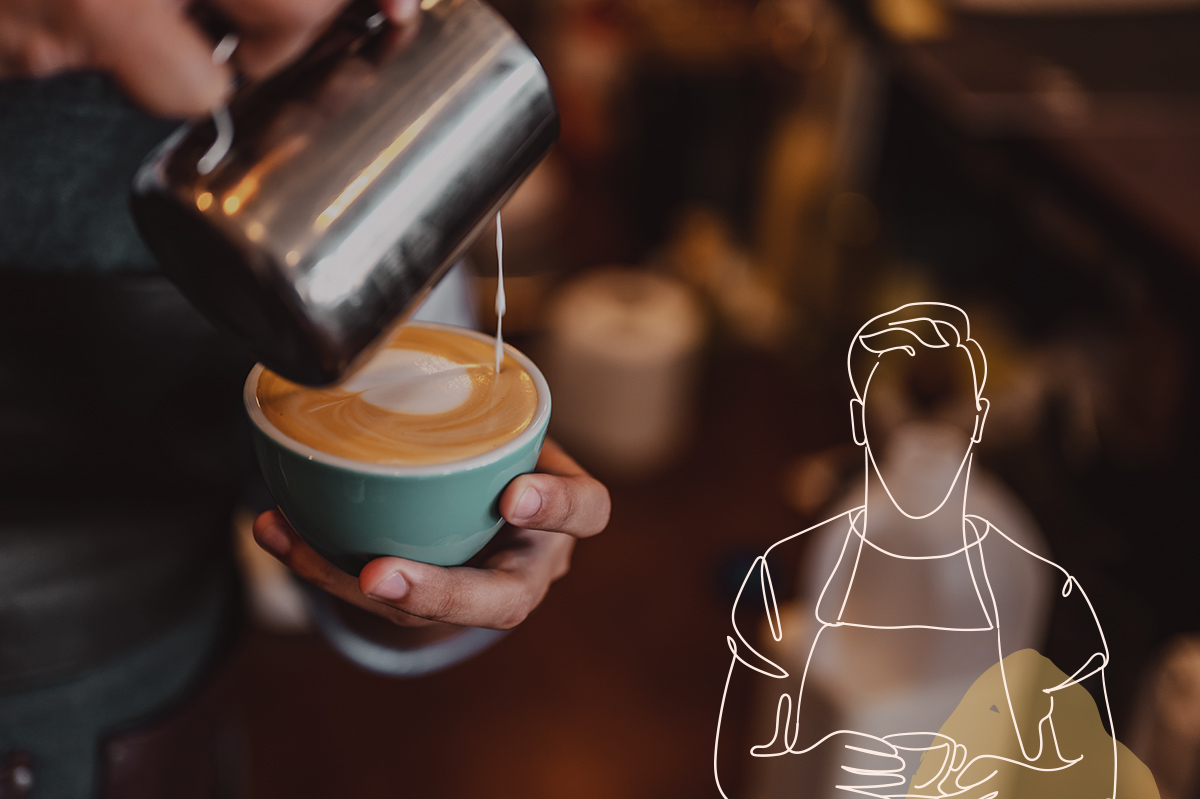
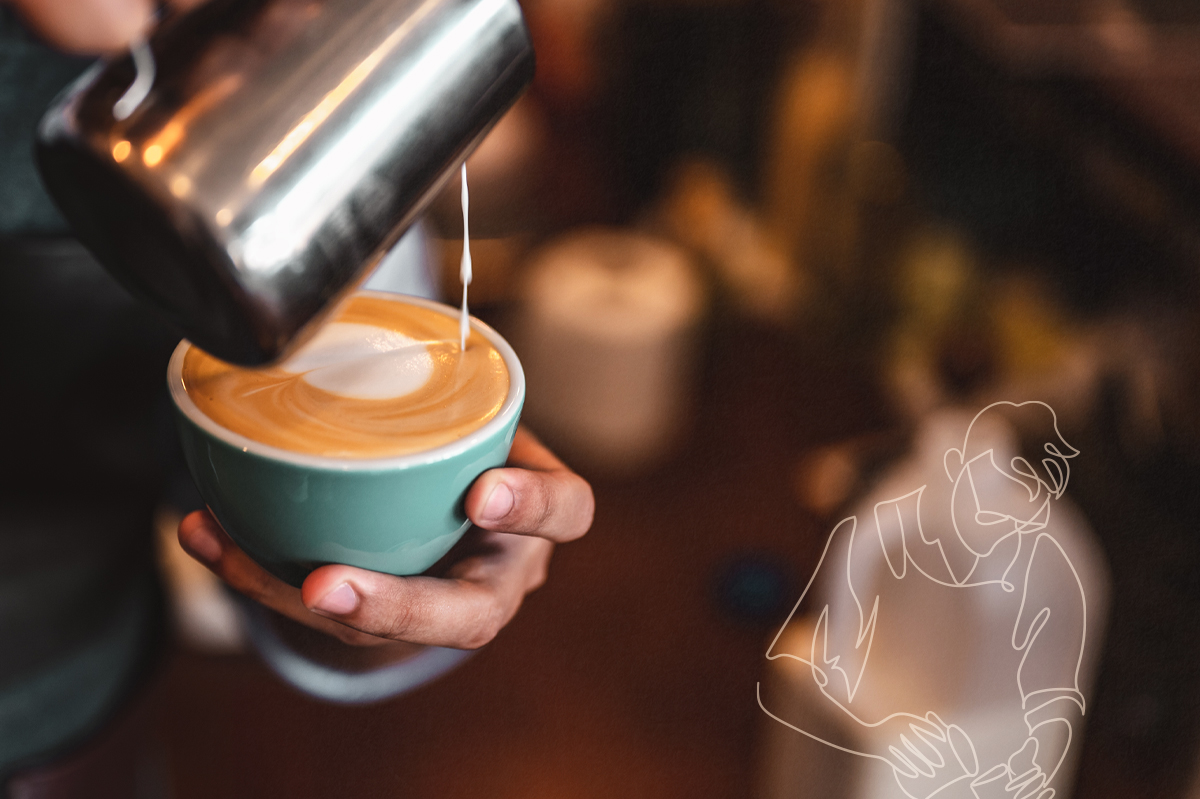
tag manager

diff --git a/cafe.html b/cafe.html
@@ -1,6 +1,16 @@
 <!DOCTYPE html>
 <html lang="zxx">
 <head>
+
+    <!-- Google tag (gtag.js) -->
+<script async src="https://www.googletagmanager.com/gtag/js?id=G-H4Y6D6W7TE"></script>
+<script>
+  window.dataLayer = window.dataLayer || [];
+  function gtag(){dataLayer.push(arguments);}
+  gtag('js', new Date());
+
+  gtag('config', 'G-H4Y6D6W7TE');
+</script>
     <!-- Required meta tags -->
     <meta charset="utf-8">
     <meta name="" content="">
@@ -193,7 +203,11 @@
                 <div class="container">
 
                     <div class="projects-details-image mb-50 wow fadeInUp delay-0-2s">
-                        <img src="assets/images/projects/cafe_visual_motif.jpg" alt="Project Details">
+                        <img src="assets/images/projects/pablo_overview_4.jpg" alt="Project Details">
+                    </div>
+
+                    <div class="projects-details-image mb-50 wow fadeInUp delay-0-2s">
+                        <img src="assets/images/projects/visual_motif.jpg" alt="Project Details">
                     </div>
 
                     <div class="projects-details-image mb-50 wow fadeInUp delay-0-2s">
